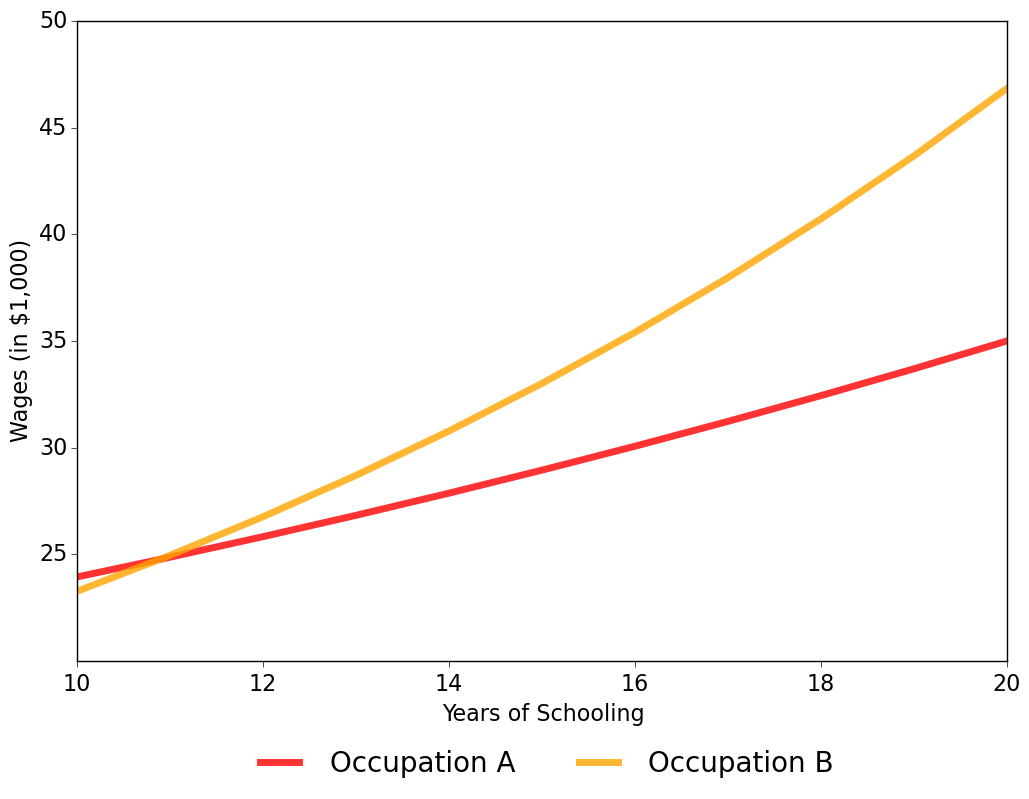
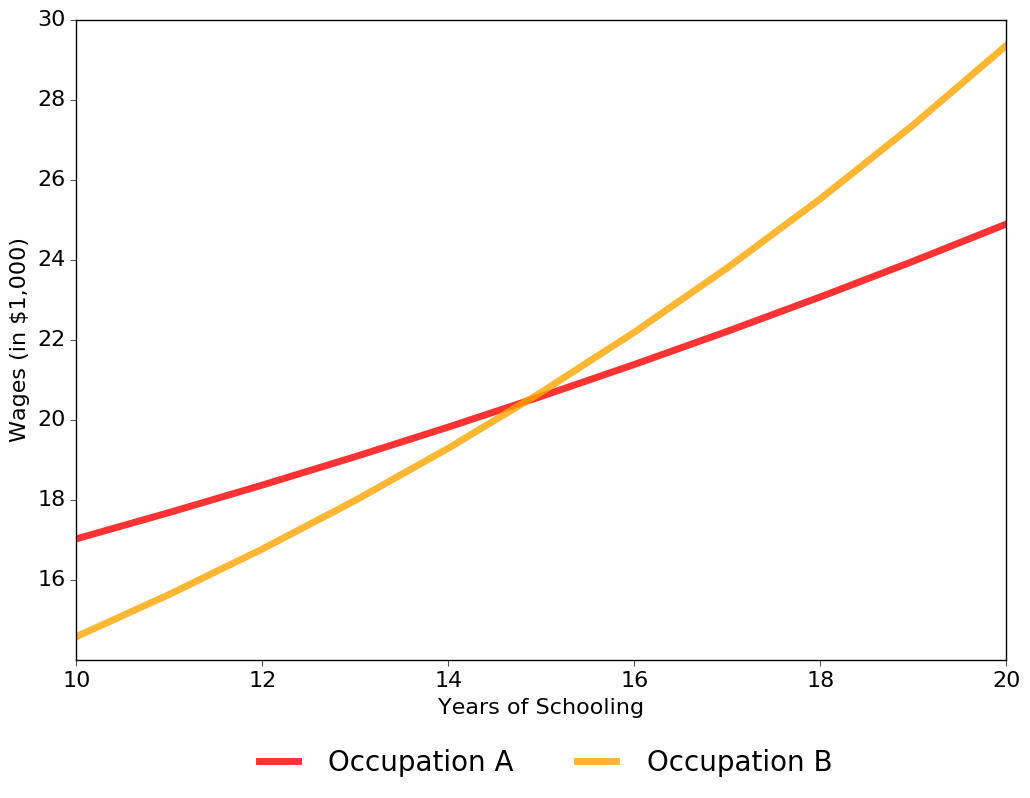
new plot for experience

diff --git a/doc/graphs/modules/auxiliary.py b/doc/graphs/modules/auxiliary.py
@@ -5,13 +5,14 @@ RESTUD economy.
 # standard library
 import matplotlib.pylab as plt
 import numpy as np
+import shlex
 
 from mpl_toolkits.mplot3d import Axes3D
 from matplotlib.ticker import FuncFormatter
 from matplotlib import cm
 
 # Evaluation points
-EDU, EXP_A, EXP_B = 10.00, 22.8490, 11.3760
+EDU, EXP_A, EXP_B = 10.00, 5, 5
 
 """ Auxiliary function
 """
@@ -23,18 +24,18 @@ def wage_function(edu, exp_A, exp_B, coeffs):
     """
 
     # Intercept
-    wage = coeffs['int']
+    wage = coeffs[0]
 
     # Schooling
-    wage += coeffs['coeff'][0] * edu
+    wage += coeffs[1] * edu
 
     # Experience A
-    wage += coeffs['coeff'][1] * exp_A
-    wage += coeffs['coeff'][2] * exp_A ** 2
+    wage += coeffs[2] * exp_A
+    wage += coeffs[3] * exp_A ** 2
 
     # Experience B
-    wage += coeffs['coeff'][3] * exp_B
-    wage += coeffs['coeff'][4] * exp_B ** 2
+    wage += coeffs[4] * exp_B
+    wage += coeffs[5] * exp_B ** 2
 
     # Transformation
     wage = np.exp(wage)
@@ -95,6 +96,40 @@ def plot_dimension_state_space(num_states):
     plt.savefig('rslts/state_space.png', bbox_inches='tight',
                 format='png')
 
+def get_choice_probabilities(fname):
+    """ Get the choice probabilities.
+    """
+    # Initialize container.
+    stats = np.tile(np.nan, (0, 4))
+
+    with open(fname) as in_file:
+
+        for line in in_file.readlines():
+
+            # Split line
+            list_ = shlex.split(line)
+
+            # Skip empty lines
+            if not list_:
+                continue
+
+            # If OUTCOMES is reached, then we are done for good.
+            if list_[0] == 'Outcomes':
+                break
+
+            # Any lines that do not have an integer as their first element
+            # are not of interest.
+            try:
+                int(list_[0])
+            except ValueError:
+                continue
+
+            # All lines that make it down here are relevant.
+            stats = np.vstack((stats, [float(x) for x in list_[1:]]))
+
+    # Finishing
+    return stats
+
 
 def plot_return_experience(x, y, z, which, spec):
     """ Function to produce plot for the return to experience.
@@ -149,14 +184,14 @@ def plot_return_education(xvals, yvals, spec):
     ax = plt.figure(figsize=(12, 8)).add_subplot(111)
 
     # Scaling
-    for occu in ['A', 'B']:
+    for occu in ['a', 'b']:
         for i, _ in enumerate(xvals):
             yvals[occu][i] = yvals[occu][i] / 1000
 
     # Draw lines
-    ax.plot(xvals, yvals['A'], '-k', label='Occupation A', linewidth=5,
+    ax.plot(xvals, yvals['a'], '-k', label='Occupation A', linewidth=5,
             color='red', alpha=0.8)
-    ax.plot(xvals, yvals['B'], '-k', label='Occupation B', linewidth=5,
+    ax.plot(xvals, yvals['b'], '-k', label='Occupation B', linewidth=5,
             color='orange', alpha=0.8)
 
     # Both axes
@@ -183,35 +218,30 @@ def plot_return_education(xvals, yvals, spec):
                 bbox_inches='tight', format='png')
 
 
-def plot_choice_patterns(choice_probabilities, spec):
+def plot_choice_patterns(choice_probabilities, task):
     """ Function to produce plot for choice patterns.
     """
-    labels = ['Home', 'School', 'Occupation A', 'Occupation B']
-
-    rows, cols = 4, 40
 
     deciles = range(40)
-
     colors = ['blue', 'yellow', 'orange', 'red']
-
     width = 0.9
 
     # Plotting
-    bottom = [0]*40
+    bottom = [0] * 40
 
     # Initialize plot
     ax = plt.figure(figsize=(12, 8)).add_subplot(111)
-
-    for i, row in enumerate(labels):
-
-        heights = choice_probabilities[row][:]
-        plt.bar(deciles, heights, width, bottom=bottom, color=colors[i],
+    labels = ['Home', 'School', 'Occupation A', 'Occupation B']
+    for j, i in enumerate([3, 2, 0, 1]):
+        heights = choice_probabilities[:, i]
+        plt.bar(deciles, heights, width, bottom=bottom, color=colors[j],
                 alpha=0.70)
         bottom = [heights[i] + bottom[i] for i in range(40)]
 
     # Both Axes
-    ax.tick_params(labelsize=16, direction='out', axis='both', top='off',
-        right='off')
+    ax.tick_params(labelsize=16, direction='out', axis='both',
+                   top='off',
+                   right='off')
 
     ax.spines['top'].set_visible(False)
     ax.spines['right'].set_visible(False)
@@ -219,7 +249,7 @@ def plot_choice_patterns(choice_probabilities, spec):
     ax.spines['left'].set_visible(False)
 
     # X axis
-    ax.set_xlabel('Periods', fontsize=16)
+    ax.set_xlabel('Period', fontsize=16)
     ax.set_xlim([0, 40])
 
     # Y axis
@@ -228,9 +258,9 @@ def plot_choice_patterns(choice_probabilities, spec):
 
     # Legend
     plt.legend(labels, loc='upper center', bbox_to_anchor=(0.5, -0.10),
-        fancybox=False, frameon=False, shadow=False, ncol=4, fontsize=20)
+               fancybox=False, frameon=False, shadow=False, ncol=4,
+               fontsize=20)
 
     # Write out to
-    plt.savefig('rslts/data_' + spec.lower() + '/choice_patterns.png',
-                bbox_inches='tight', format='png')
-
+    plt.savefig('choices_' + task + '.png', bbox_inches='tight',
+                format='png')
